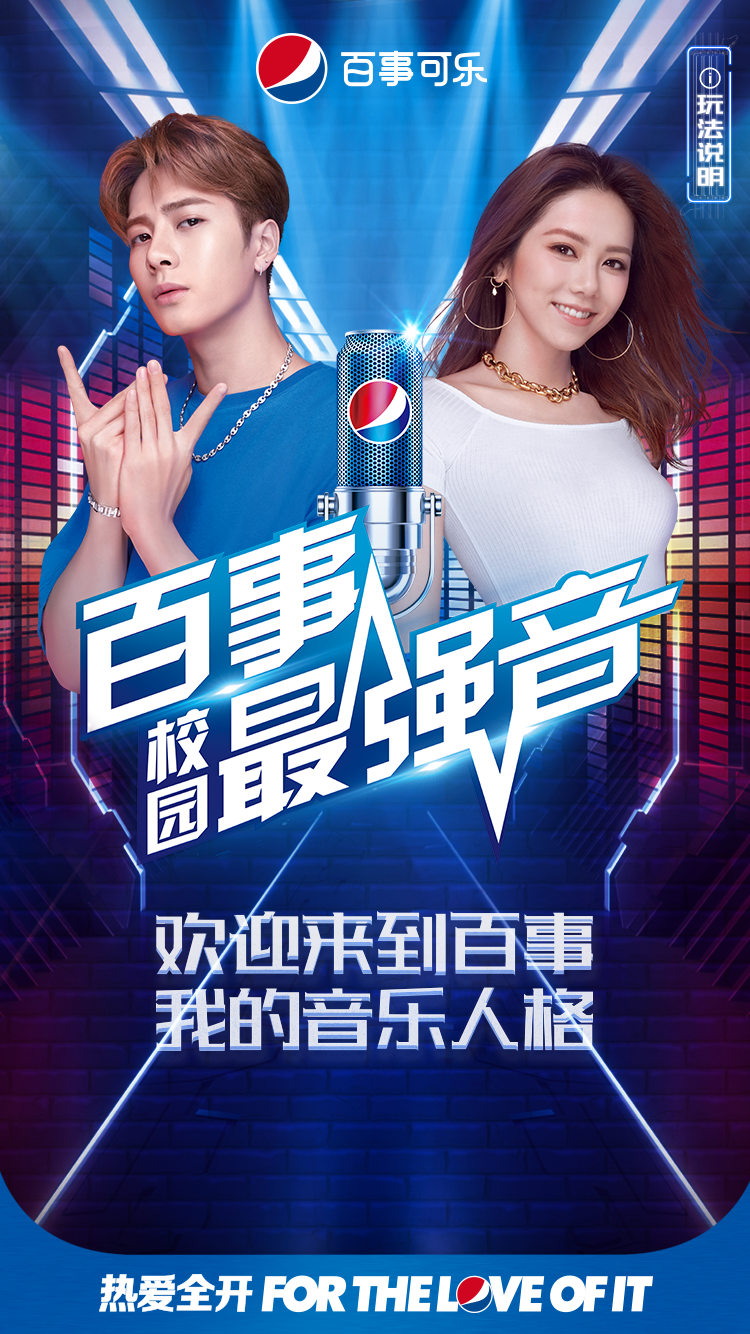
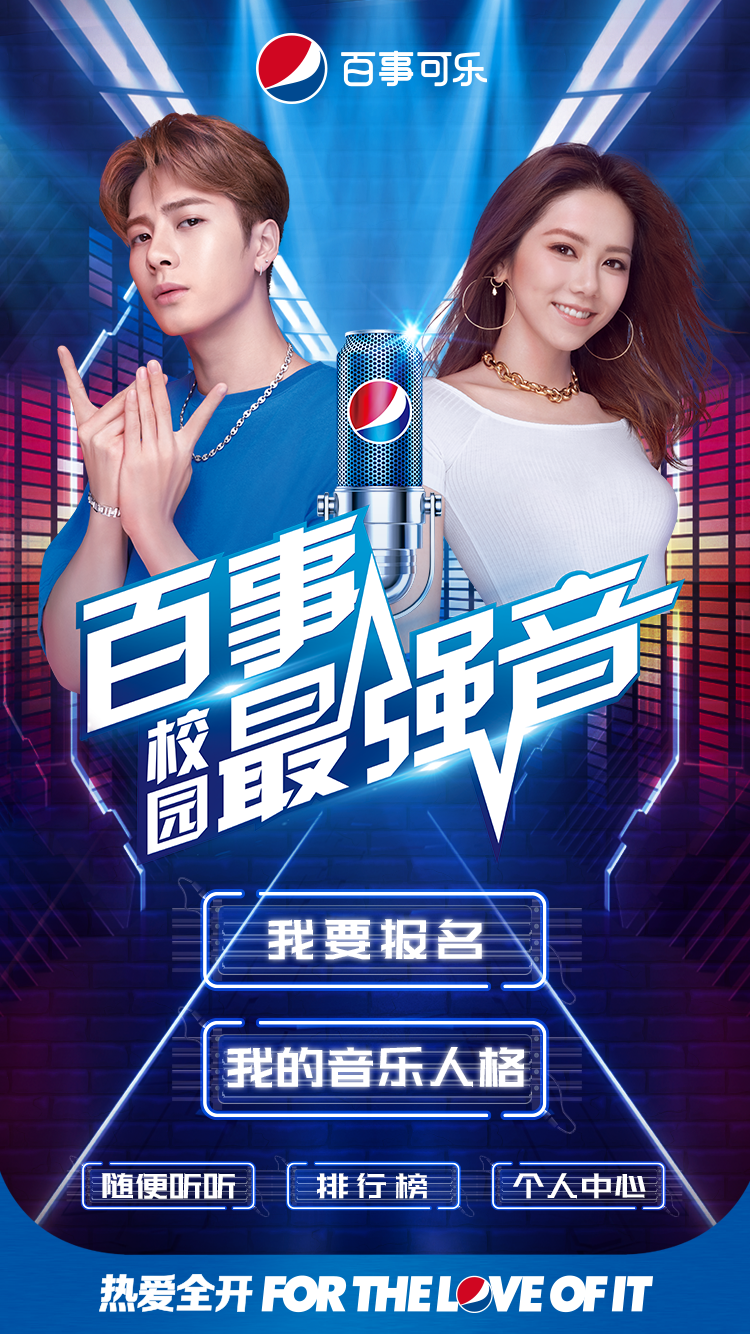
home , register UI design

Changed region(s): [[0.092, 0.6454, 0.8893, 0.922], [0.8893, 0.0307, 0.9813, 0.1537]]

diff --git a/pages/register/index.js b/pages/register/index.js
@@ -1,0 +1,87 @@
+// pages/register/index.js
+Page({
+
+    /**
+     * 页面的初始数据
+     */
+    data: {
+        schools: ['学校', 'xuexiao'],
+        schoolIndex:-1,
+        games: ['shaidiansdf', 'shaidian'],
+        gameIndex:-1,
+        region: ['广东省', '广州市', '海珠区'],
+        customItem: '全部'
+    },
+
+    /**
+     * 生命周期函数--监听页面加载
+     */
+    onLoad: function (options) {
+
+    },
+
+    /**
+     * 生命周期函数--监听页面初次渲染完成
+     */
+    onReady: function () {
+
+    },
+
+    /**
+     * 生命周期函数--监听页面显示
+     */
+    onShow: function () {
+
+    },
+
+    /**
+     * 生命周期函数--监听页面隐藏
+     */
+    onHide: function () {
+
+    },
+
+    /**
+     * 生命周期函数--监听页面卸载
+     */
+    onUnload: function () {
+
+    },
+
+    /**
+     * 页面相关事件处理函数--监听用户下拉动作
+     */
+    onPullDownRefresh: function () {
+
+    },
+
+    /**
+     * 页面上拉触底事件的处理函数
+     */
+    onReachBottom: function () {
+
+    },
+
+    /**
+     * 用户点击右上角分享
+     */
+    onShareAppMessage: function () {
+
+    },
+    handleSchool(e) {
+        console.log('handleSchool')
+        this.setData({
+            schoolIndex: e.detail.value
+        })
+    }, handleRegion(e) {
+        console.log('handleRegion')
+        this.setData({
+            region: e.detail.value
+        })
+    }, handleGame(e) {
+        console.log('handleGame')
+        this.setData({
+            gameIndex: e.detail.value
+        })
+    }
+})

diff --git a/pages/index/index.js b/pages/index/index.js
@@ -4,26 +4,27 @@ const app = getApp()
 
 Page({
     data: {
-        howToplayVisible: false
+
     },
-    handleStarttour: function () {
-        // wx.navigateTo({
-        //     url: '../logs/logs'
-        // })
-        console.log('handleStarttour')
-    },
-    handleHowtoplay: function () {
-        this.setData({
-            howToplayVisible: true
+    handleRegister: function () {
+        console.log('handleRegister')
+        wx.navigateTo({
+            url:'/pages/register/index?from=home'
         })
-        console.log('how to play')
+    },
+    handleMyMusic: function () {
+        console.log('handleMyMusic')
+    },
+    handleListen: function () {
+        console.log('handleListen')
+    },
+    handleRankList: function () {
+        console.log('handleRankList')
+    },
+    handleUserInfo: function () {
+        console.log('handleUserInfo')
     },
     onLoad: function () {
 
-    },
-    handleHidetap(){
-        this.setData({
-            howToplayVisible: false
-        })
     }
 })
